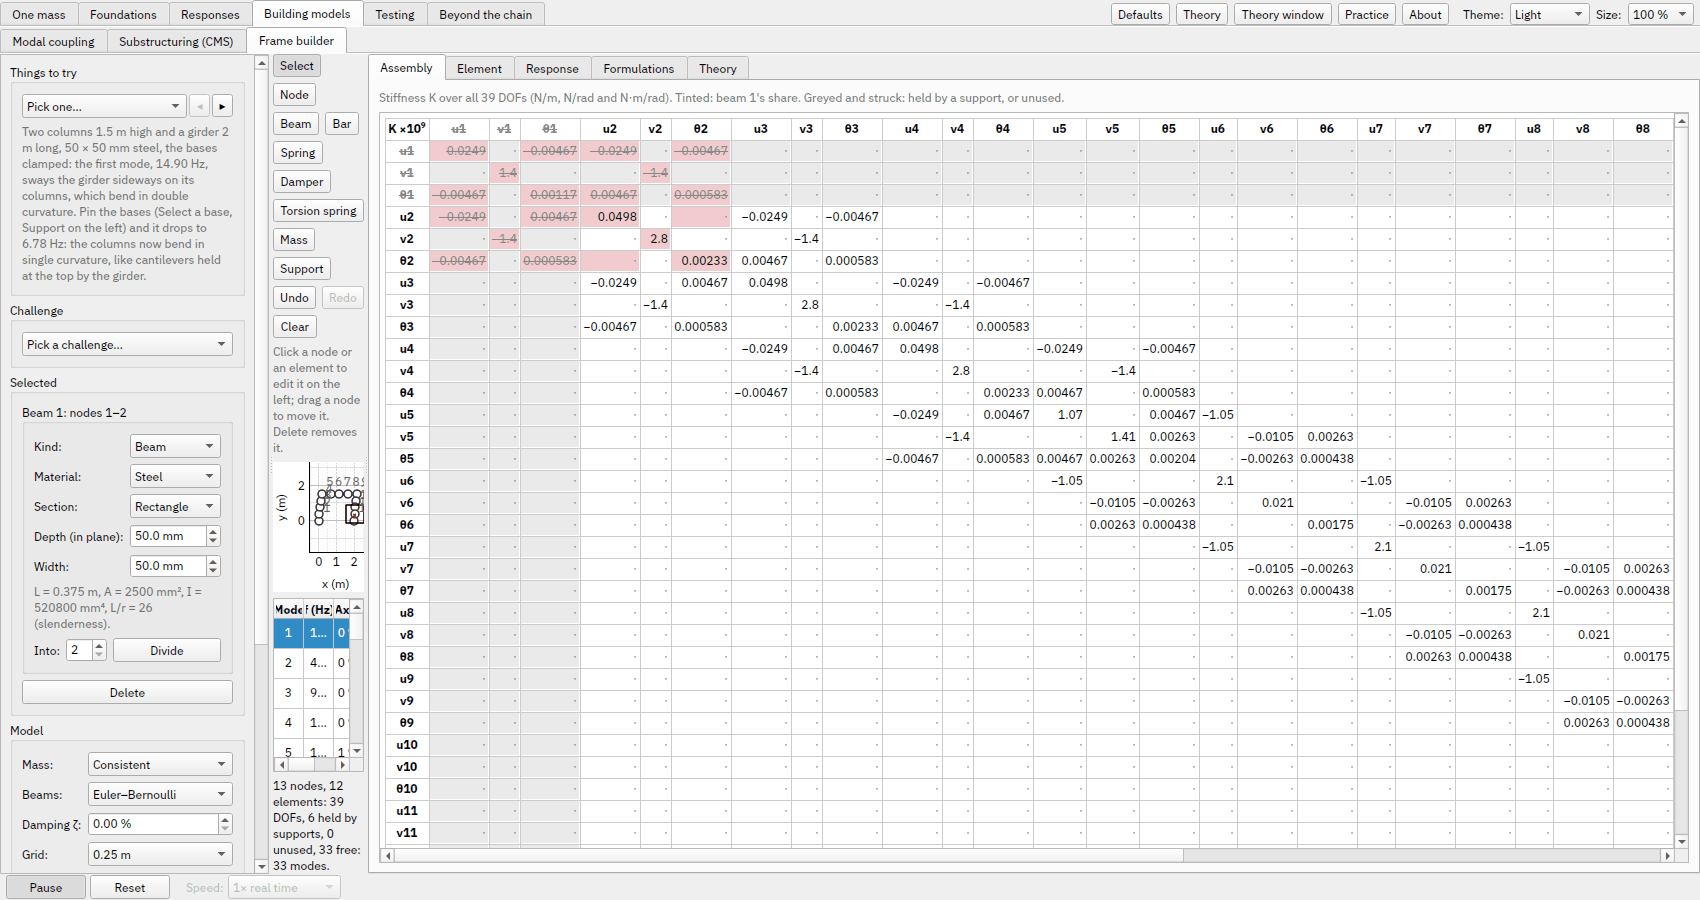
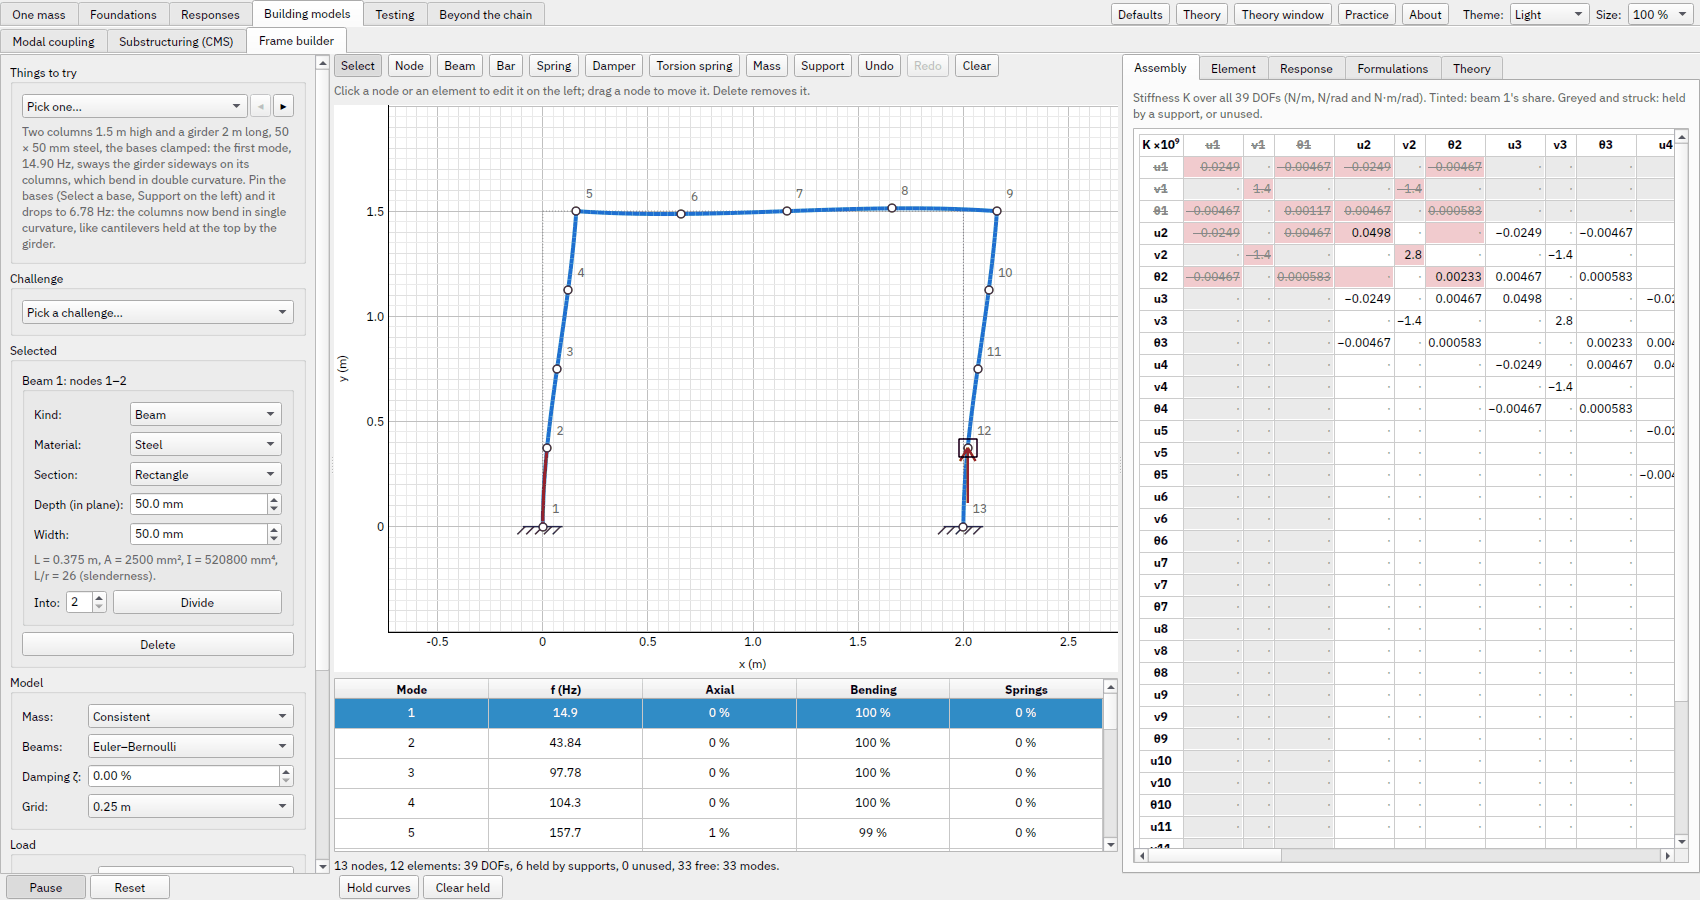
Frame builder: the canvas keeps the room at 1280, K scrolls (#409 U-11)
TabRoom widened a page's right pane until every text browser in it needed no
sideways scroll. That's for the Theory notes, but the Frame builder's Assembly
tab is a plain QTextBrowser holding K (~770 px wide), so the pane took the room
from the canvas, which got ~210 × 310 px at 1280 × 800. TabRoom now widens for
NotesBrowsers only: K scrolls in its pane and the canvas gets ~580 × 420, and
the modes table under it shows all its columns (part of U-12). No other page's
panes move at 1280 (checked over all forty).

The README's Frame builder shots are regenerated.

Changed region(s): [[0.0, 0.0622, 0.9976, 1.0]]

diff --git a/src/vib_tutorial/gui/lesson.py b/src/vib_tutorial/gui/lesson.py
@@ -637,8 +637,9 @@ def three_panes(
 class TabRoom(QtCore.QObject):
     """Widens a splitter's last pane, taking from the panes before it (the nearest first, each down to its
     minimum), until every tab bar in it shows all its tabs' names (no scroll arrows), as it's shown or resized,
-    until the reader moves the splitter themselves; and its notes (a Theory tab) until they need no sideways
-    scroll. `MainWindow._page` gives every page's panes one.
+    until the reader moves the splitter themselves; and its notes (a Theory tab's `NotesBrowser`) until they need no
+    sideways scroll. Not a page's other text views (the Frame builder's K matrix, ~770 px): they scroll sideways in
+    their pane, which would otherwise take the room from the page's main view (#409 U-11). `MainWindow._page` gives every page's panes one.
 
     `sizes` and `TAB_ROOM` lay the panes out for this machine's font; another's (macOS's 13 pt system font,
     Ubuntu's DejaVu Sans) is wider, and the tabs' names with it."""
@@ -654,7 +655,7 @@ class TabRoom(QtCore.QObject):
         last.installEventFilter(self)
         for tabs in last.findChildren(QtWidgets.QTabWidget):
             tabs.installEventFilter(self)  # a tab page's own tabs show when it's picked
-        for notes in last.findChildren(QtWidgets.QTextBrowser):
+        for notes in last.findChildren(NotesBrowser):
             bar = notes.horizontalScrollBar()
             assert bar is not None, "a text browser's scroll bar"
             bar.rangeChanged.connect(self._on_range)  # the notes laid out wider than their pane
@@ -688,7 +689,7 @@ class TabRoom(QtCore.QObject):
                 bar = tabs.tabBar()
                 need = sum(bar.tabSizeHint(i).width() for i in range(bar.count()) if bar.isTabVisible(i))
                 short = max(short, need - tabs.width())
-        for notes in last.findChildren(QtWidgets.QTextBrowser):
+        for notes in last.findChildren(NotesBrowser):
             scroll = notes.horizontalScrollBar()
             if notes.isVisible() and scroll is not None:
                 short = max(short, scroll.maximum())

diff --git a/tests/test_gui_smoke.py b/tests/test_gui_smoke.py
@@ -5384,6 +5384,27 @@ def test_rigid_body_paths_and_drift(main_window, app):
     assert "isn't turning" in page.drift_note.text()
 
 
+def test_the_frame_builders_canvas_keeps_the_room_at_1280_px(main_window):
+    """The Assembly tab's K matrix (~770 px wide) scrolls in its pane rather than widen it: `TabRoom` widens a pane
+    for its notes only, and widening it for K left the canvas ~210 px wide (#409 U-11). Its modes table shows all
+    its columns' names too (U-12)."""
+    from PySide6 import QtWidgets
+
+    w = main_window
+    w.resize(1280, 800)
+    w.show_page("frame_page")
+    for _ in range(5):
+        QtWidgets.QApplication.processEvents()
+    page = w.frame_page
+    assert page.tabs.currentIndex() == 0 and page.assembly_view.isVisible()
+    assert page.canvas.width() >= 450 and page.canvas.height() >= 350
+    assert page.assembly_view.horizontalScrollBar().maximum() > 0  # K scrolls instead
+    header = page.table.horizontalHeader()
+    names = [page.table.horizontalHeaderItem(c).text() for c in range(page.table.columnCount())]
+    for c, text in enumerate(names):
+        assert header.sectionSize(c) >= header.fontMetrics().horizontalAdvance(text) + 8, text
+
+
 def test_every_pages_tabs_fit_a_1280_px_window_without_scroll_arrows(main_window):
     """At 1280×800 each page's tab bars show every tab's name: a page whose tabs need it gives its right pane
     `lesson.TAB_ROOM`, and `lesson.TabRoom` widens it further where the font is wider (macOS's, Ubuntu's). And no
